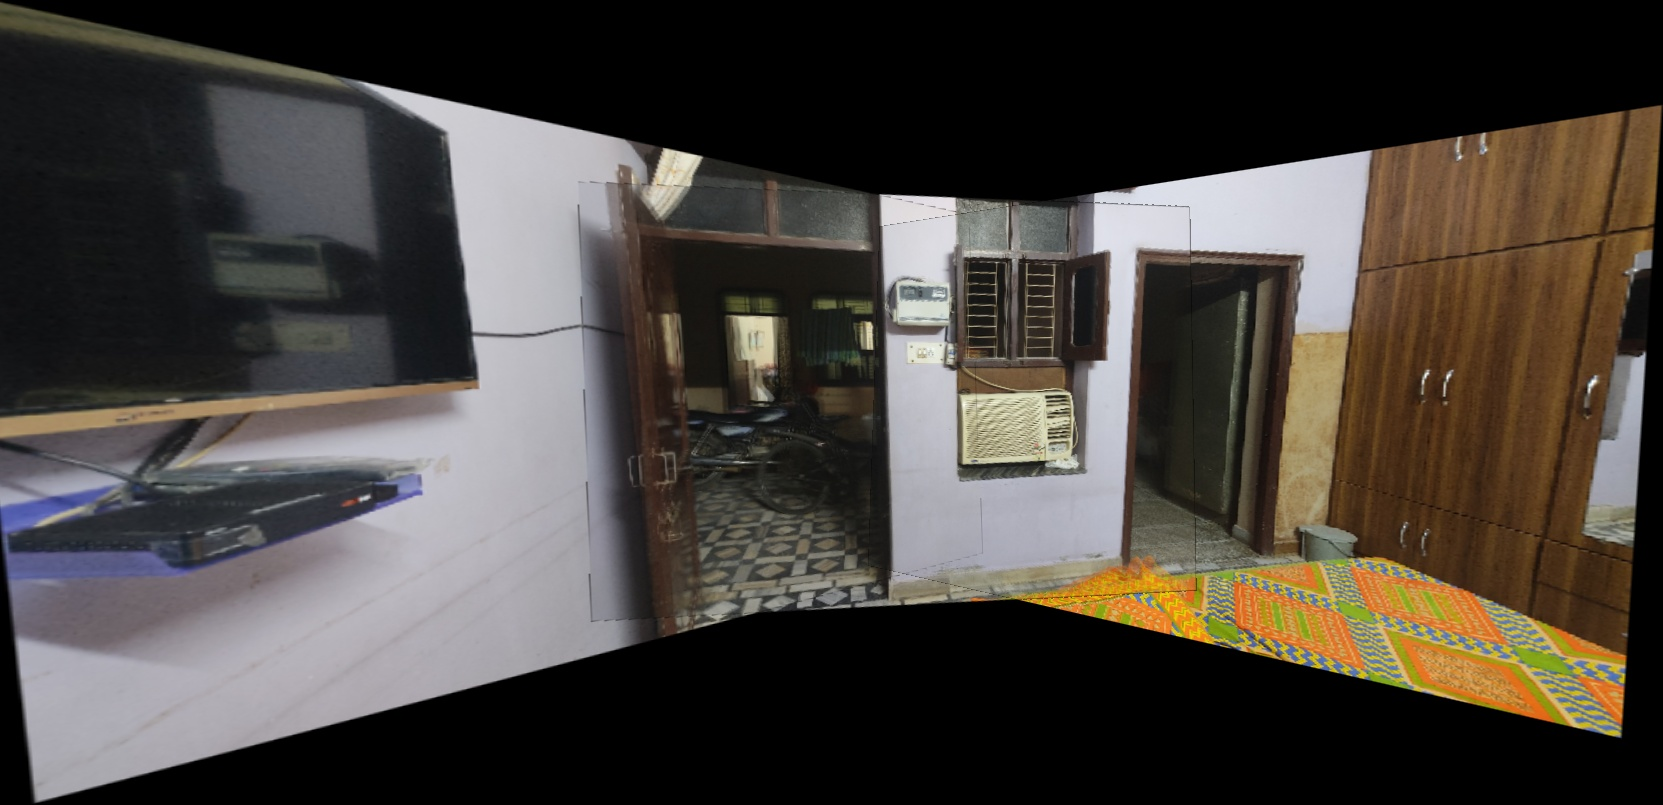
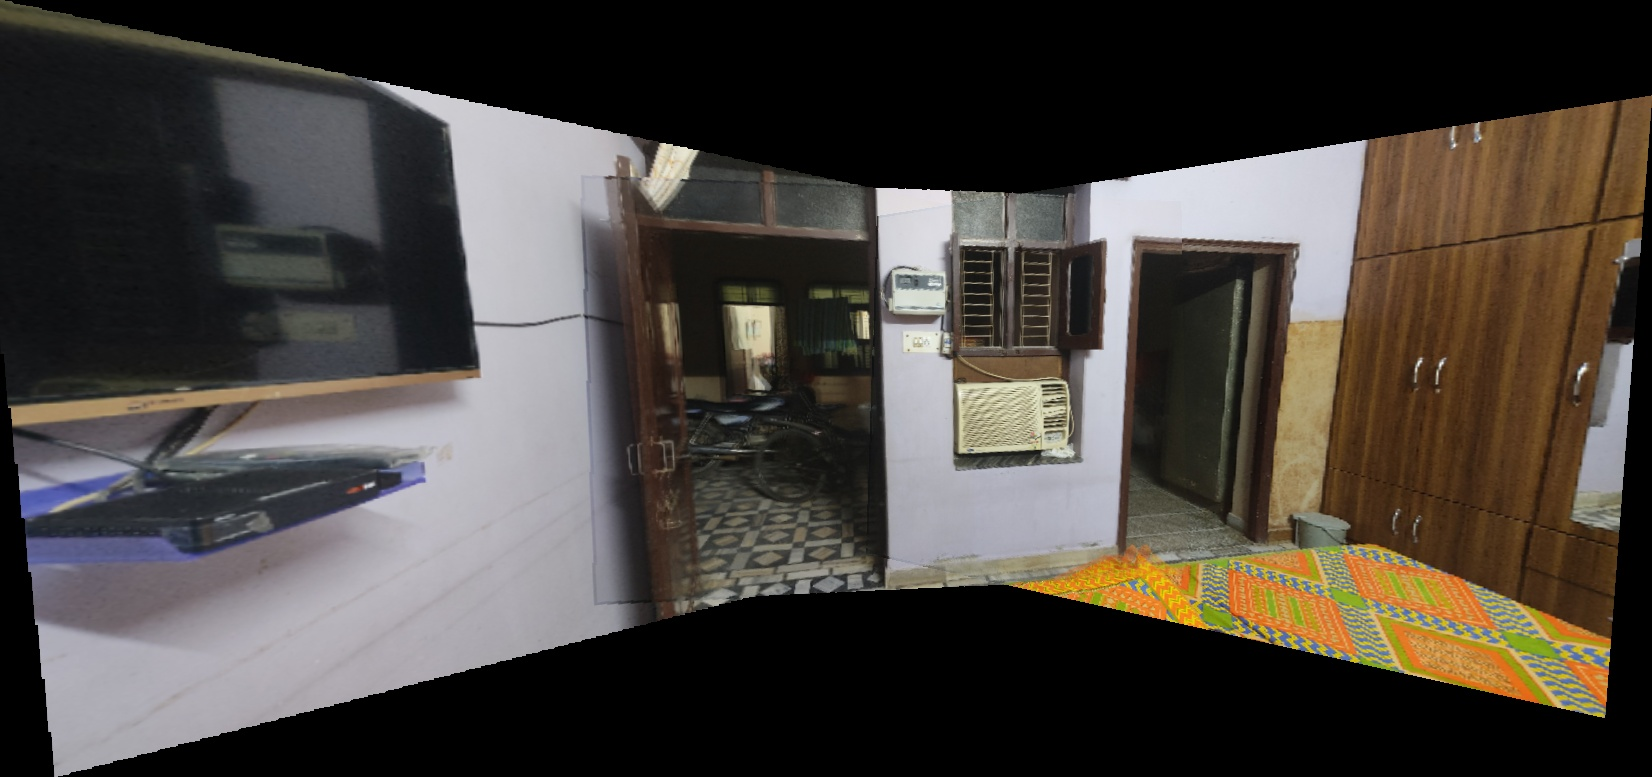
set 4 added

diff --git a/extra_functions.py b/extra_functions.py
@@ -70,26 +70,42 @@ def get_panaroma_image(base_img, target_img, crop_ROI):
 	warpped_base_img = cv2.warpPerspective(base_img, H2, (3*w, 3*h))
 
 
+
+
+
 	final_img = 0*warpped_target_img
 	ROI_img = np.zeros(shape = final_img.shape[0:2], dtype=np.uint8)
 
 	
-
+	kernel = np.ones((5,5),np.uint8)
+	
 	final_img_base = 0*ROI_img
 	final_img_base[(warpped_base_img[:,:,0]/255.0 + warpped_base_img[:,:,1]/255.0 + warpped_base_img[:,:,2]/255.0) > 0] = 1
+	_, final_img_base = cv2.threshold(final_img_base,0,1,cv2.THRESH_BINARY)
+	final_img_base = cv2.erode(final_img_base,kernel,iterations = 1)
 
 
 	final_img_target = 0*ROI_img
-	final_img_target[(warpped_target_img[:,:,0]/255.0 + warpped_target_img[:,:,1]/255.0 + warpped_target_img[:,:,2]/255.0) > 0] = 2
-	ROI_img[warpped_target_img[:,:,0] + warpped_target_img[:,:,1] + warpped_target_img[:,:,2] > 0] = 255
+	final_img_target[(warpped_target_img[:,:,0]/255.0 + warpped_target_img[:,:,1]/255.0 + warpped_target_img[:,:,2]/255.0) > 0] = 1
+	ROI_img[(warpped_target_img[:,:,0]/255.0 + warpped_target_img[:,:,1]/255.0 + warpped_target_img[:,:,2]/255.0) > 0] = 255
+	_, final_img_target = cv2.threshold(final_img_target,0,2,cv2.THRESH_BINARY)
+	final_img_target = cv2.erode(final_img_target,kernel,iterations = 1)
+
 
 
 	final_img_combined = final_img_base + final_img_target
+	_, final_img_combined = cv2.threshold(final_img_combined,2,255,cv2.THRESH_BINARY)
+	final_img_combined = cv2.erode(final_img_combined,kernel,iterations = 1)
+	
+	
 
 
-	final_img [final_img_combined == 1] = warpped_base_img[final_img_combined == 1]
-	final_img [final_img_combined == 2] = warpped_target_img[final_img_combined == 2]
-	final_img [final_img_combined == 3] = 0.5*np.array(warpped_base_img[final_img_combined == 3]) + 0.5*np.array(warpped_target_img[final_img_combined == 3])
+	final_img [(final_img_base > 0) & (final_img_combined == 0)] = warpped_base_img[(final_img_base > 0) & (final_img_combined == 0)]
+	final_img [(final_img_target > 0) & (final_img_combined == 0)] = warpped_target_img[(final_img_target > 0) & (final_img_combined == 0)]
+	final_img [final_img_combined > 0] = 0.5*np.array(warpped_base_img[final_img_combined > 0]) + 0.5*np.array(warpped_target_img[final_img_combined > 0])
+
+
+
 
 
 
@@ -112,8 +128,6 @@ def get_panaroma_image(base_img, target_img, crop_ROI):
 
 	crop_img = final_img[y:y+h, x:x+w, :]
 	crop_ROI = ROI_img[y:y+h, x:x+w]
-
-
 
 	return base_img, target_img, crop_img, crop_ROI
 

diff --git a/README.md b/README.md
@@ -23,6 +23,6 @@ For example  `python main.py -s 3 -r 2` means taking images from foder `</sample
 
 
 **TO DO**
-1. Remove the unwanted image distortion.
+1. Distortion increase with the number of images for creating the panoramic view.
 
 
